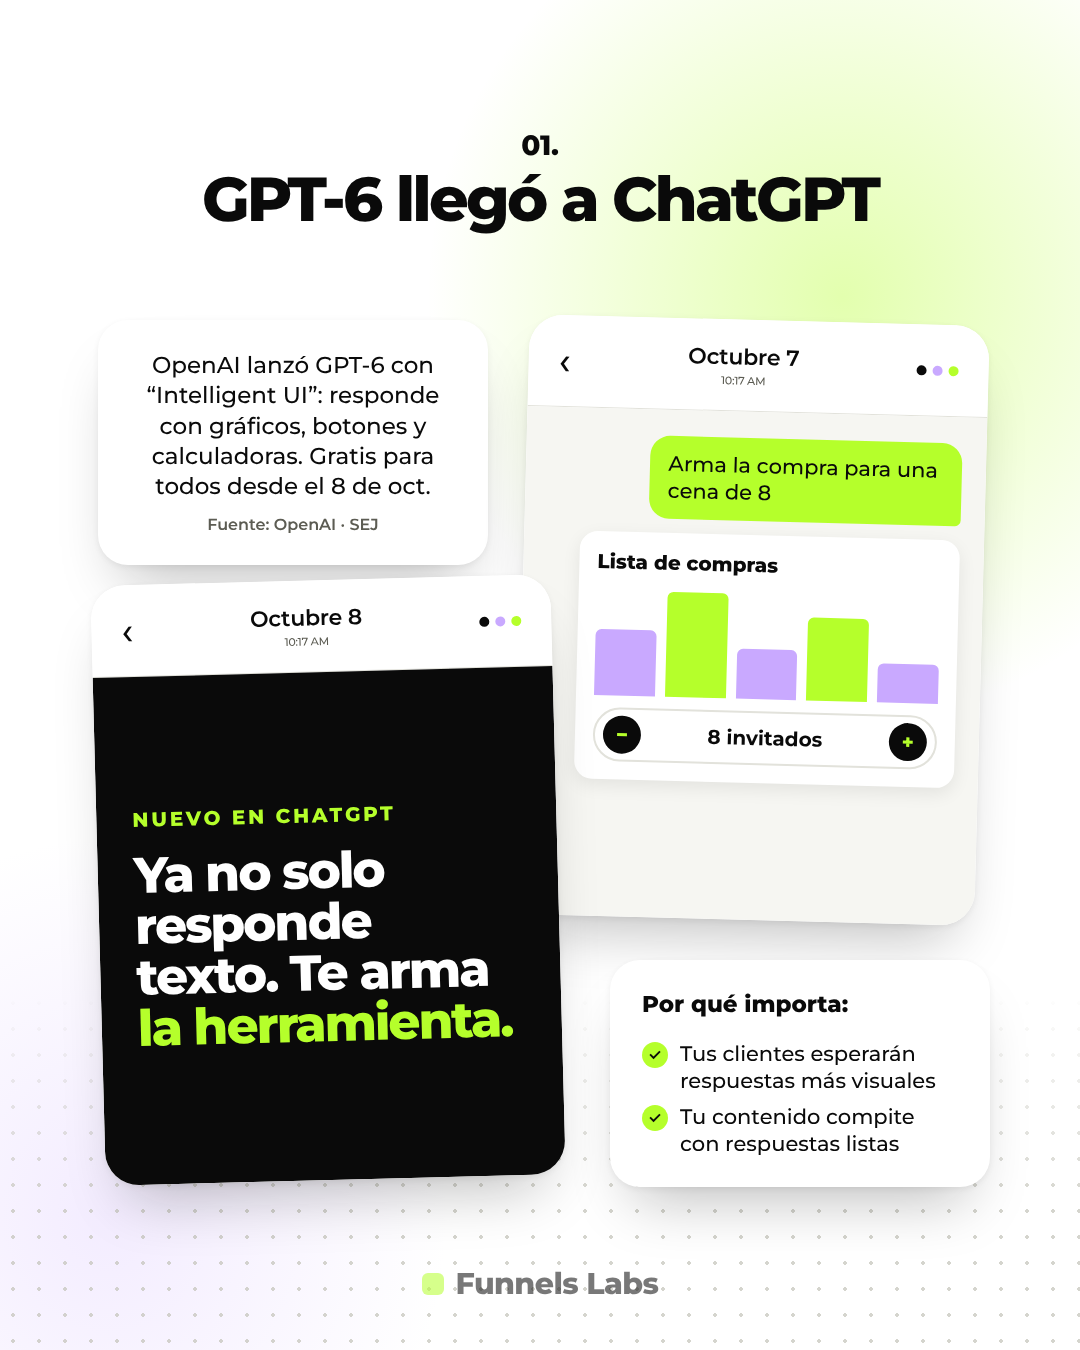
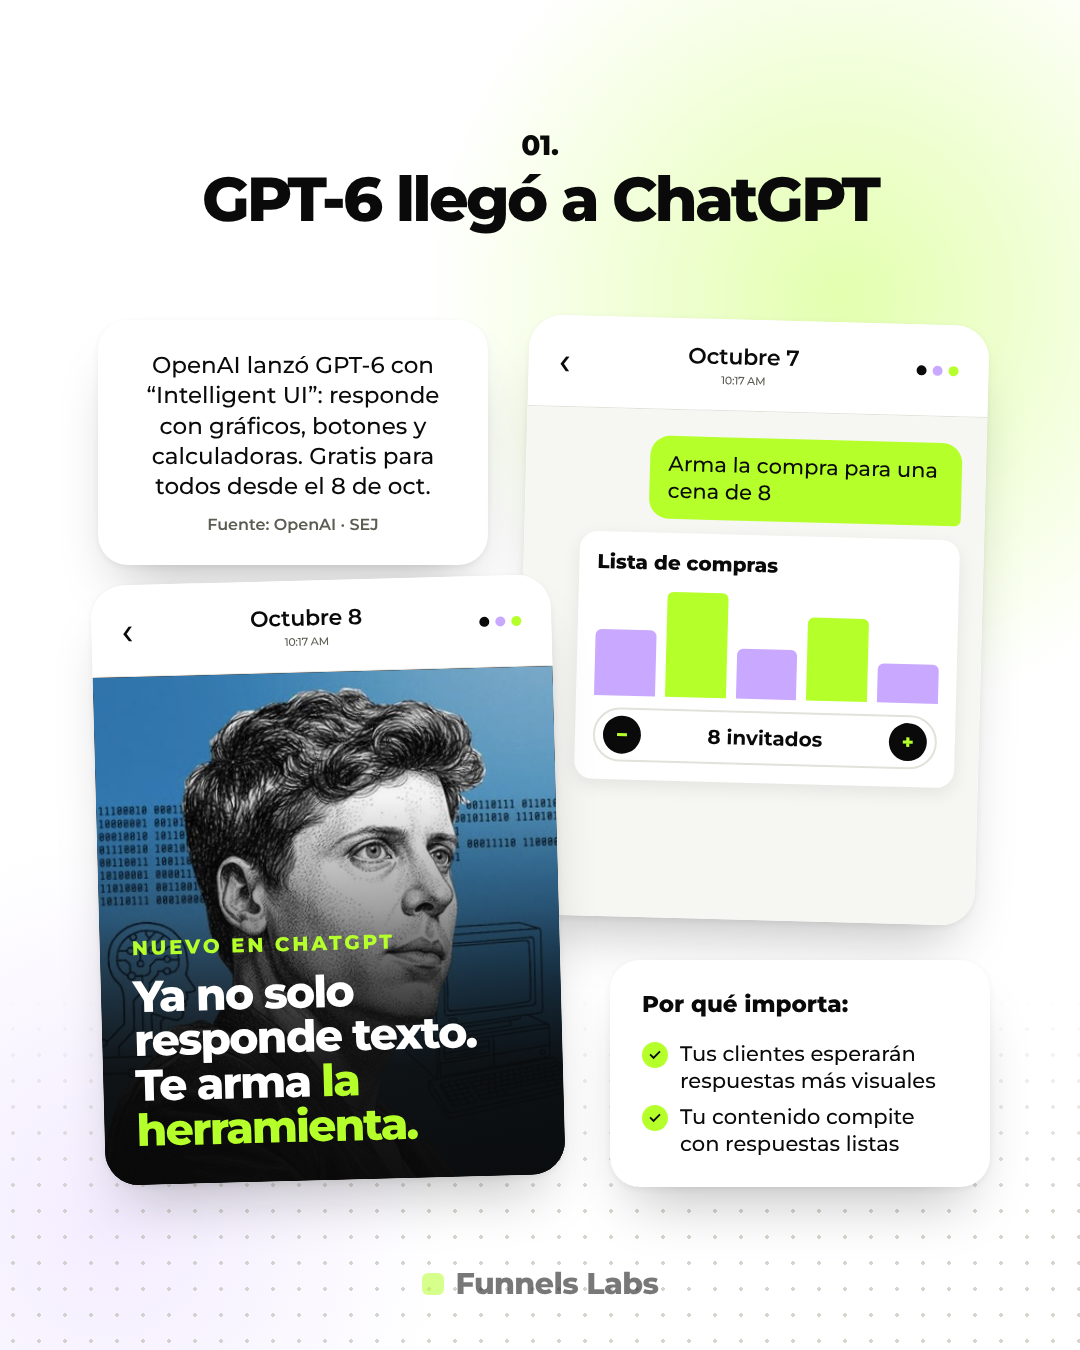
Noticias IA: imágenes de personajes y marcas en cada noticia
Claude-Session: https://claude.ai/code/session_018d4LXHkXweDJXxfN5x99dL

Changed region(s): [[0.0611, 0.4667, 0.5194, 0.8711]]

diff --git a/carruseles/noticias-ia-semana-oct-8/carrusel.html b/carruseles/noticias-ia-semana-oct-8/carrusel.html
@@ -134,6 +134,9 @@
   .ok { color: var(--lime-dark); } .pay { background: var(--ink); color: var(--lime); padding: 2px 10px; border-radius: 8px; }
   .term { font-family: "Montserrat", monospace; font-size: 21px; line-height: 1.7; font-weight: 600; }
   .term .t { color: var(--lime); }
+
+  .ov { position:absolute; inset:0; width:100%; height:100%; object-fit:cover; }
+  .shade { position:absolute; inset:0; background: linear-gradient(rgba(10,10,10,0) 25%, rgba(10,10,10,.88) 78%); }
 </style>
 </head>
 <body>
@@ -152,8 +155,9 @@
    <div class="ui-card"><div style="font-weight:800;font-size:20px">Lista de compras</div>
    <div class="bars"><i style="height:60%"></i><i class="on" style="height:95%"></i><i style="height:45%"></i><i class="on" style="height:75%"></i><i style="height:35%"></i></div>
    <div class="stepper"><b>−</b>8 invitados<b>+</b></div></div></div></div>
-  <div class="phone p2"><header><span class="back">‹</span><span class="date">Octubre 8<small>10:17 AM</small></span><span class="dots"><b></b><b></b><b></b></span></header><div class="screen s-black" style="justify-content:center;gap:18px"><div class="k" style="color:var(--lime)">Nuevo en ChatGPT</div>
-   <div class="big" style="font-size:50px">Ya no solo responde texto. Te arma <span style="color:var(--lime)">la herramienta.</span></div></div></div>
+  <div class="phone p2"><header><span class="back">‹</span><span class="date">Octubre 8<small>10:17 AM</small></span><span class="dots"><b></b><b></b><b></b></span></header><div class="screen s-black" style="justify-content:flex-end;gap:14px;padding:32px"><img class="ov" src="img/01.jpg" style="object-position:center 20%"><div class="shade"></div>
+   <div class="k" style="color:var(--lime);position:relative">Nuevo en ChatGPT</div>
+   <div class="big" style="font-size:44px;position:relative;color:#fff">Ya no solo responde texto. Te arma <span style="color:var(--lime)">la herramienta.</span></div></div></div>
   <div class="card why"><h4>Por qué importa:</h4><ul><li>Tus clientes esperarán respuestas más visuales</li><li>Tu contenido compite con respuestas listas</li></ul></div>
   <div class="logo"><i></i>Funnels Labs</div>
 </section>
@@ -165,8 +169,8 @@
    <div class="row"><span>Mensaje del cliente</span><span class="ok">Gratis</span></div>
    <div class="row"><span>Tus primeras 1,000 respuestas del mes</span><span class="ok">Gratis</span></div>
    <div class="row" style="border:0"><span>De la 1,001 en adelante</span><span class="pay">Se cobra</span></div></div></div>
-  <div class="phone p2"><header><span class="back">‹</span><span class="date">Octubre 1<small>10:17 AM</small></span><span class="dots"><b></b><b></b><b></b></span></header><div class="screen s-lime" style="justify-content:center"><div class="big" style="font-size:60px">Responder ya no es gratis.</div>
-   <div class="marker" style="font-size:42px;margin-top:16px">Responder mal sale caro.</div></div></div>
+  <div class="phone p2"><header><span class="back">‹</span><span class="date">Octubre 1<small>10:17 AM</small></span><span class="dots"><b></b><b></b><b></b></span></header><div class="screen s-lime photo"><div class="band" style="padding:22px 28px 16px"><div class="big" style="font-size:40px">Responder ya no es gratis.</div></div>
+   <div class="pic"><img src="img/02.jpg" style="object-position:center 45%"></div></div></div>
   <div class="card why"><h4>Por qué importa:</h4><ul><li>Calcula cuántos mensajes respondes al mes</li><li>Menos ida y vuelta, más cierres</li></ul></div>
   <div class="logo"><i></i>Funnels Labs</div>
 </section>
@@ -176,7 +180,8 @@
   <div class="card note" style="font-size:23px">IA que encuentra, valida y corrige fallas de seguridad. Por ahora, solo para equipos de ciberseguridad aprobados.<span class="src">Fuente: TechRepublic · 30 sep.</span></div>
   <div class="phone p1"><header><span class="back">‹</span><span class="date">Septiembre 30<small>10:17 AM</small></span><span class="dots"><b></b><b></b><b></b></span></header><div class="screen s-dark" style="justify-content:center"><div class="k" style="color:var(--lilac);margin-bottom:14px">Escaneo de seguridad</div>
    <div class="term">Vulnerabilidad encontrada <span class="t">✓</span><br>Vulnerabilidad validada <span class="t">✓</span><br>Parche aplicado <span class="t">✓</span></div></div></div>
-  <div class="phone p2"><header><span class="back">‹</span><span class="date">Septiembre 30<small>10:17 AM</small></span><span class="dots"><b></b><b></b><b></b></span></header><div class="screen s-lilac" style="justify-content:center"><div class="big" style="font-size:54px">La IA también aprendió a <span style="background:var(--lime);padding:0 8px;border-radius:8px">defender.</span></div></div></div>
+  <div class="phone p2"><header><span class="back">‹</span><span class="date">Septiembre 30<small>10:17 AM</small></span><span class="dots"><b></b><b></b><b></b></span></header><div class="screen s-lilac photo"><div class="band"><div class="big" style="font-size:44px">La IA también aprendió a <span style="background:var(--lime);padding:0 8px;border-radius:8px">defender.</span></div></div>
+   <div class="pic"><img src="img/03.jpg" style="object-position:center 60%"></div></div></div>
   <div class="card why"><h4>Por qué importa:</h4><ul><li>Los datos de tus clientes valen oro</li><li>Revisa quién tiene acceso a qué</li></ul></div>
   <div class="logo"><i></i>Funnels Labs</div>
 </section>
@@ -186,7 +191,8 @@
   <div class="card note" style="font-size:23px">Un juez de EE. UU. desestimó las demandas de Chegg y Penske Media contra los AI Overviews de Google. Pueden apelar.<span class="src">Fuente: TheWrap · Ars Technica</span></div>
   <div class="phone p1"><header><span class="back">‹</span><span class="date">Septiembre 30<small>10:17 AM</small></span><span class="dots"><b></b><b></b><b></b></span></header><div class="screen s-paper" style="justify-content:center;gap:20px"><div class="big" style="font-size:54px">“Una expectativa no es un acuerdo.”</div>
    <div style="font-size:22px;font-weight:600;color:var(--ink-muted)">— Juez Amit Mehta</div></div></div>
-  <div class="phone p2"><header><span class="back">‹</span><span class="date">Septiembre 30<small>10:17 AM</small></span><span class="dots"><b></b><b></b><b></b></span></header><div class="screen s-black" style="justify-content:center"><div class="big" style="font-size:52px">El tráfico de Google <span style="color:var(--lime)">no está garantizado.</span></div></div></div>
+  <div class="phone p2"><header><span class="back">‹</span><span class="date">Septiembre 30<small>10:17 AM</small></span><span class="dots"><b></b><b></b><b></b></span></header><div class="screen s-black" style="justify-content:flex-end;padding:32px"><img class="ov" src="img/04.jpg" style="object-position:center 30%"><div class="shade"></div>
+   <div class="big" style="font-size:46px;position:relative;color:#fff">El tráfico de Google <span style="color:var(--lime)">no está garantizado.</span></div></div></div>
   <div class="card why"><h4>Por qué importa:</h4><ul><li>Construye canales propios</li><li>WhatsApp, email y comunidad</li></ul></div>
   <div class="logo"><i></i>Funnels Labs</div>
 </section>
